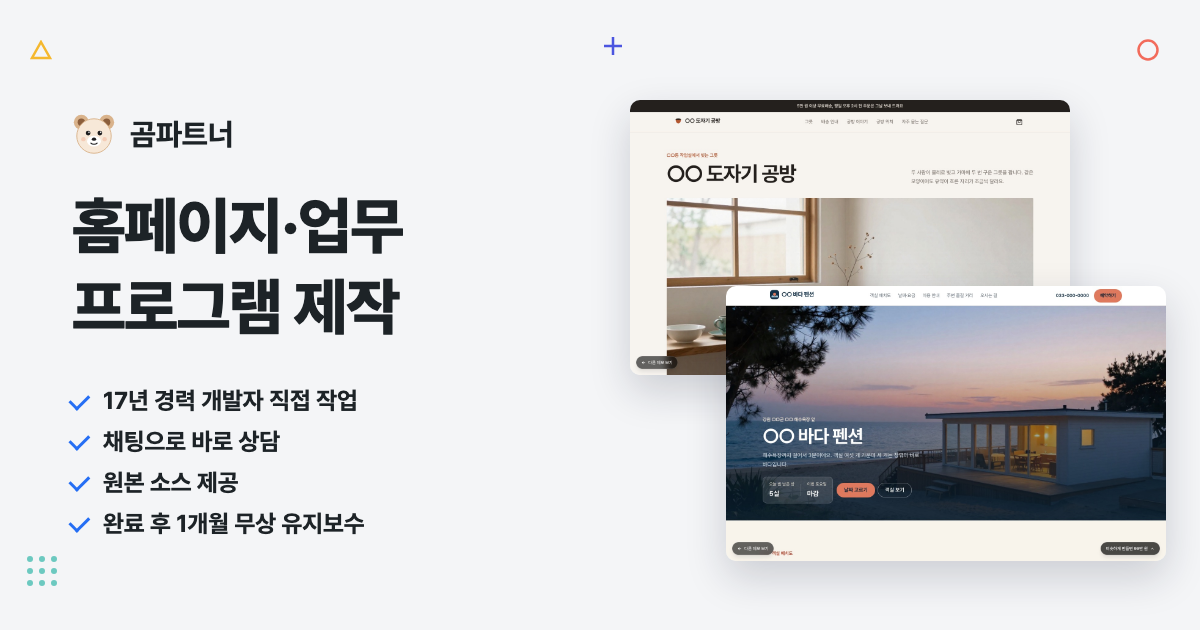
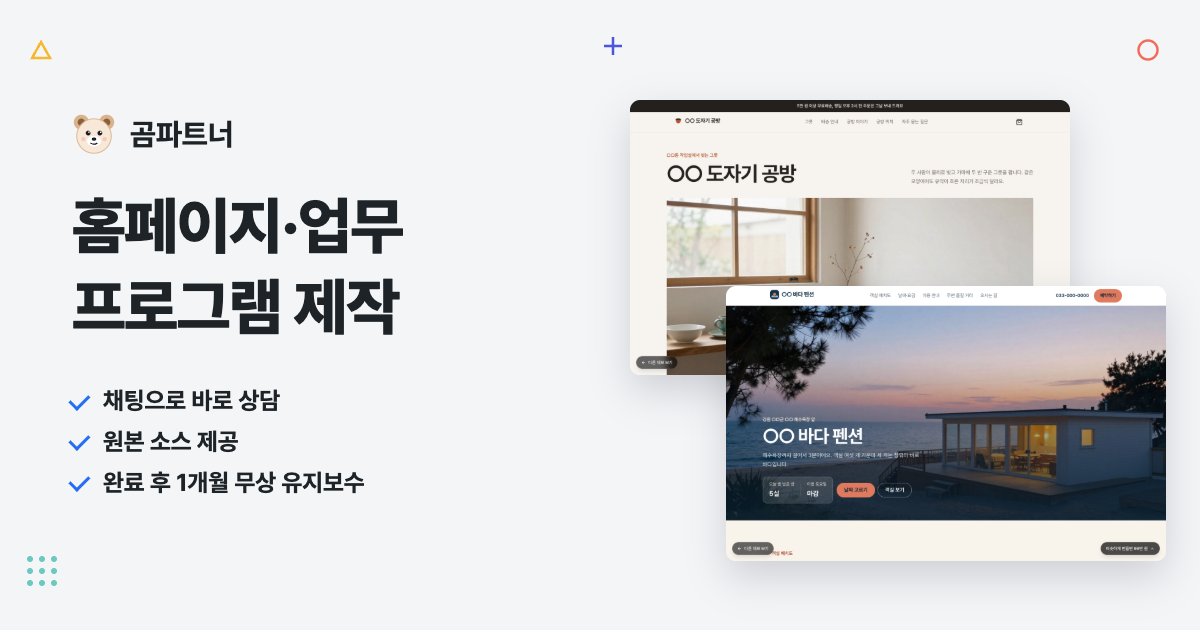
공유 이미지에서 경력 문구 제거

Changed region(s): [[0.0617, 0.6032, 0.3083, 0.7841], [0.0617, 0.8143, 0.3083, 0.8444]]

diff --git a/app/layout.tsx b/app/layout.tsx
@@ -60,7 +60,7 @@ export const metadata: Metadata = {
     description: siteDescription,
     images: [
       {
-        url: "/og-image.png?v=20261004b",
+        url: "/og-image.png?v=20261004c",
         width: 1200,
         height: 630,
         alt: `${profile.name} 홈페이지·업무 프로그램 제작`,
@@ -71,7 +71,7 @@ export const metadata: Metadata = {
     card: "summary_large_image",
     title: siteTitle,
     description: siteDescription,
-    images: ["/og-image.png?v=20261004b"],
+    images: ["/og-image.png?v=20261004c"],
   },
   verification: {
     other: { "naver-site-verification": ["1c5242ef5ddbce4e807bad7225bb0770a1cb06c1", "184bef35395b609c58d44964bf16993e76c0dd50"] },
